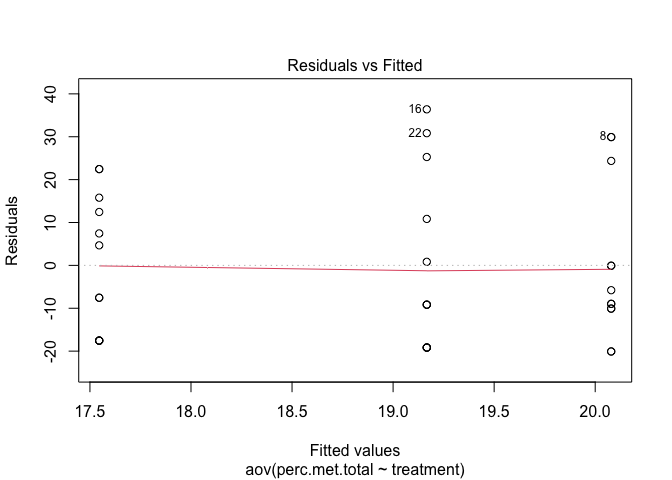
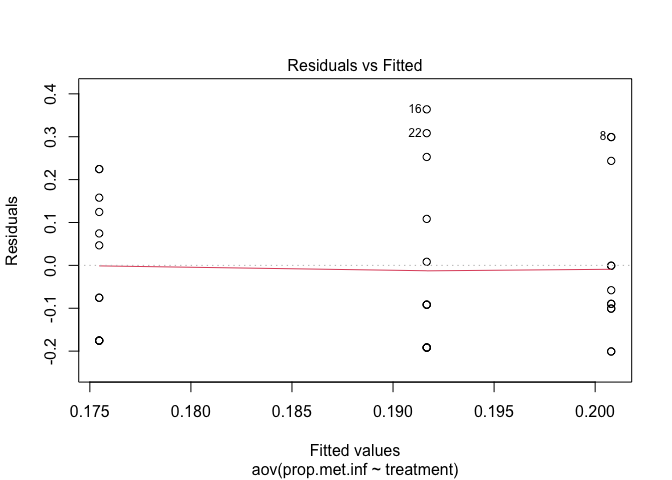
error checking github md file

diff --git a/Fall2022GalleriaField.md b/Fall2022GalleriaField.md
@@ -1,7 +1,7 @@
 Fall 2022 Galleria field infection data
 ================
 Morgan Swoboda
-2023-02-08
+2023-02-09
 
 # Package install and upload data sheet
 
@@ -36,24 +36,23 @@ Fall22EPF <- read.csv("Fall 22 epf bioassay - Sheet1.csv", )
 #make treatments and varieties into factors
 Fall22EPF$treatment = factor(Fall22EPF$treatment, levels = c("Control", "10Met", "10Bb"))
 Fall22EPF$variety = factor(Fall22EPF$variety, levels = c("Cochise", "Armani"))
-Fall22EPF$num.dead = as.numeric(Fall22EPF$num.dead)
-Fall22EPF$num.pupae = as.numeric(Fall22EPF$num.pupae)
-Fall22EPF$total.out = as.numeric(Fall22EPF$total.out)
-Fall22EPF$num.met.infect = as.numeric(Fall22EPF$num.met.infect)
+#Fall22EPF$num.dead = as.numeric(Fall22EPF$num.dead)
+#Fall22EPF$num.pupae = as.numeric(Fall22EPF$num.pupae)
+#Fall22EPF$total.out = as.numeric(Fall22EPF$total.out)
+#Fall22EPF$num.met.infect = as.numeric(Fall22EPF$num.met.infect)
 ```
 
 \#Prelim data check
 
 ``` r
-ggplot(data = Fall22EPF, aes(x = treatment, y = perc.inf.total, color = variety)) + geom_boxplot() + ggtitle("Total infection")
+#histogram of the distribution of number of metarhizium infected insects
+hist(Fall22EPF$num.met.infect)
 ```
 
 ![](Fall2022GalleriaField_files/figure-gfm/unnamed-chunk-2-1.png)<!-- -->
 
 ``` r
-#everything looks ok
-
-ggplot(data = Fall22EPF, aes(x = treatment, y = perc.met.total, color = variety)) + geom_boxplot() + ggtitle("Metarhizium infection")
+ggplot(data = Fall22EPF, aes(x = treatment, y = prop.met.inf, color = variety)) + geom_boxplot() + ggtitle("Metarhizium infection")
 ```
 
 ![](Fall2022GalleriaField_files/figure-gfm/unnamed-chunk-2-2.png)<!-- -->
@@ -63,15 +62,15 @@ ggplot(data = Fall22EPF, aes(x = treatment, y = perc.met.total, color = variety)
 attach(Fall22EPF)
 
 ##two way ANOVA
-two.way.Met <- aov(perc.met.total~treatment*variety)
-summary(two.way.Met) #no signifcant differences, no interaction, change to one way model instead
+two.way.Met <- aov(prop.met.inf~treatment*variety)
+summary(two.way.Met) #no signifcant differences, no interaction, change to one way model instead?
 ```
 
     ##                   Df Sum Sq Mean Sq F value Pr(>F)
-    ## treatment          2     40    19.8   0.055  0.947
-    ## variety            1    196   196.2   0.543  0.467
-    ## treatment:variety  2    150    74.8   0.207  0.814
-    ## Residuals         30  10831   361.0
+    ## treatment          2 0.0040 0.00198   0.055  0.947
+    ## variety            1 0.0196 0.01962   0.543  0.467
+    ## treatment:variety  2 0.0150 0.00748   0.207  0.814
+    ## Residuals         30 1.0831 0.03610
 
 ``` r
 summary.lm(two.way.Met)
@@ -79,36 +78,36 @@ summary.lm(two.way.Met)
 
     ## 
     ## Call:
-    ## aov(formula = perc.met.total ~ treatment * variety)
+    ## aov(formula = prop.met.inf ~ treatment * variety)
     ## 
     ## Residuals:
     ##     Min      1Q  Median      3Q     Max 
-    ## -24.073 -14.260  -7.458  13.864  41.300 
+    ## -0.2407 -0.1426 -0.0746  0.1387  0.4130 
     ## 
     ## Coefficients:
-    ##                              Estimate Std. Error t value Pr(>|t|)  
-    ## (Intercept)                   20.1583     7.7571   2.599   0.0144 *
-    ## treatment10Met                -5.8983    10.9701  -0.538   0.5948  
-    ## treatment10Bb                 -4.7883    10.9701  -0.436   0.6656  
-    ## varietyArmani                 -0.1583    10.9701  -0.014   0.9886  
-    ## treatment10Met:varietyArmani   9.9717    15.5141   0.643   0.5253  
-    ## treatment10Bb:varietyArmani    4.5100    15.5141   0.291   0.7733  
+    ##                               Estimate Std. Error t value Pr(>|t|)  
+    ## (Intercept)                   0.201587   0.077571   2.599   0.0144 *
+    ## treatment10Met               -0.058995   0.109702  -0.538   0.5947  
+    ## treatment10Bb                -0.047884   0.109702  -0.436   0.6656  
+    ## varietyArmani                -0.001587   0.109702  -0.014   0.9886  
+    ## treatment10Met:varietyArmani  0.099735   0.155142   0.643   0.5252  
+    ## treatment10Bb:varietyArmani   0.045106   0.155142   0.291   0.7733  
     ## ---
     ## Signif. codes:  0 '***' 0.001 '**' 0.01 '*' 0.05 '.' 0.1 ' ' 1
     ## 
-    ## Residual standard error: 19 on 30 degrees of freedom
-    ## Multiple R-squared:  0.03435,    Adjusted R-squared:  -0.1266 
-    ## F-statistic: 0.2134 on 5 and 30 DF,  p-value: 0.9541
+    ## Residual standard error: 0.19 on 30 degrees of freedom
+    ## Multiple R-squared:  0.03436,    Adjusted R-squared:  -0.1266 
+    ## F-statistic: 0.2135 on 5 and 30 DF,  p-value: 0.9541
 
 ``` r
 ##one way anova
-one.way.Met <- aov(perc.met.total~treatment)
+one.way.Met <- aov(prop.met.inf~treatment)
 summary(one.way.Met) #not significant
 ```
 
     ##             Df Sum Sq Mean Sq F value Pr(>F)
-    ## treatment    2     40    19.8   0.058  0.943
-    ## Residuals   33  11177   338.7
+    ## treatment    2  0.004 0.00198   0.058  0.943
+    ## Residuals   33  1.118 0.03387
 
 ``` r
 summary.lm(one.way.Met)
@@ -116,23 +115,23 @@ summary.lm(one.way.Met)
 
     ## 
     ## Call:
-    ## aov(formula = perc.met.total ~ treatment)
+    ## aov(formula = prop.met.inf ~ treatment)
     ## 
     ## Residuals:
-    ##     Min      1Q  Median      3Q     Max 
-    ## -20.079 -17.546  -7.546  13.287  36.393 
+    ##      Min       1Q   Median       3Q      Max 
+    ## -0.20079 -0.17546 -0.07546  0.13287  0.36389 
     ## 
     ## Coefficients:
-    ##                Estimate Std. Error t value Pr(>|t|)    
-    ## (Intercept)     20.0792     5.3126   3.780 0.000626 ***
-    ## treatment10Met  -0.9125     7.5132  -0.121 0.904069    
-    ## treatment10Bb   -2.5333     7.5132  -0.337 0.738113    
+    ##                 Estimate Std. Error t value Pr(>|t|)    
+    ## (Intercept)     0.200794   0.053127   3.780 0.000626 ***
+    ## treatment10Met -0.009127   0.075133  -0.121 0.904049    
+    ## treatment10Bb  -0.025331   0.075133  -0.337 0.738142    
     ## ---
     ## Signif. codes:  0 '***' 0.001 '**' 0.01 '*' 0.05 '.' 0.1 ' ' 1
     ## 
-    ## Residual standard error: 18.4 on 33 degrees of freedom
-    ## Multiple R-squared:  0.003523,   Adjusted R-squared:  -0.05687 
-    ## F-statistic: 0.05833 on 2 and 33 DF,  p-value: 0.9434
+    ## Residual standard error: 0.184 on 33 degrees of freedom
+    ## Multiple R-squared:  0.003522,   Adjusted R-squared:  -0.05687 
+    ## F-statistic: 0.05831 on 2 and 33 DF,  p-value: 0.9435
 
 ``` r
 plot(one.way.Met) #probably not normal based on QQ plot, looks like it's exponential?
@@ -148,76 +147,74 @@ shapiro.test(resid(one.way.Met)) #residuals NOT normal
     ##  Shapiro-Wilk normality test
     ## 
     ## data:  resid(one.way.Met)
-    ## W = 0.88313, p-value = 0.001218
+    ## W = 0.88312, p-value = 0.001217
 
 ``` r
-fligner.test(perc.met.total~treatment) #normal
+fligner.test(prop.met.inf~treatment) #normal
 ```
 
     ## 
     ##  Fligner-Killeen test of homogeneity of variances
     ## 
-    ## data:  perc.met.total by treatment
-    ## Fligner-Killeen:med chi-squared = 0.57668, df = 2, p-value = 0.7495
+    ## data:  prop.met.inf by treatment
+    ## Fligner-Killeen:med chi-squared = 0.5765, df = 2, p-value = 0.7496
 
 ``` r
 # KW instead since it's not normal
 ##KW for met
-MetF22KW <- kruskal.test(perc.met.total~treatment)
+MetF22KW <- kruskal.test(prop.met.inf~treatment)
 print(MetF22KW) #not significant
 ```
 
     ## 
     ##  Kruskal-Wallis rank sum test
     ## 
-    ## data:  perc.met.total by treatment
+    ## data:  prop.met.inf by treatment
     ## Kruskal-Wallis chi-squared = 0.35641, df = 2, p-value = 0.8368
 
 ``` r
-detach(Fall22EPF)
-```
-
-# Try a different type of analysis? Could this data be proportions?
-
-## X is categorical, unsure what to do with Y?
-
-``` r
-attach(Fall22EPF)
-
+#make some graphs
 head(Fall22EPF)
 ```
 
-    ##   pot.ID treatment variety num.dead num.pupae perc.pupated total.out num.infect
-    ## 1    C+1   Control Cochise        5         2     28.57143         7          1
-    ## 2    C+2   Control Cochise       10         0      0.00000        10          6
-    ## 3    C+3   Control Cochise        9         0      0.00000         9          6
-    ## 4    C+4   Control Cochise        9         0      0.00000         9          2
-    ## 5    C+5   Control Cochise        9         0      0.00000         9          2
-    ## 6    C+6   Control Cochise        9         1     10.00000        10          2
-    ##   num.bb.infect num.met.infect perc.inf.total perc.bb.total perc.met.total
-    ## 1             0              1          14.29             0          14.29
-    ## 2             0              2          60.00             0          20.00
-    ## 3             0              4          66.67             0          44.44
-    ## 4             0              1          22.22             0          11.11
-    ## 5             0              1          22.22             0          11.11
-    ## 6             0              2          20.00             0          20.00
+    ##   pot.ID treatment variety num.dead num.pupae total.out num.infect
+    ## 1    C+1   Control Cochise        5         2         7          1
+    ## 2    C+2   Control Cochise       10         0        10          6
+    ## 3    C+3   Control Cochise        9         0         9          6
+    ## 4    C+4   Control Cochise        9         0         9          2
+    ## 5    C+5   Control Cochise        9         0         9          2
+    ## 6    C+6   Control Cochise        9         1        10          2
+    ##   num.bb.infect num.met.infect prop.met.inf prop.bb.inf
+    ## 1             0              1    0.1428571           0
+    ## 2             0              2    0.2000000           0
+    ## 3             0              4    0.4444444           0
+    ## 4             0              1    0.1111111           0
+    ## 5             0              1    0.1111111           0
+    ## 6             0              2    0.2000000           0
 
 ``` r
-par(mfrow = c(1,2))
-
-inf.proportion <- num.met.infect/total.out #looking for the proportion of metarhizium infections out of the number of removed insects
-plot(treatment, inf.proportion, ylab = "proportion met infected", xlab("Treatment"))
-plot(treatment, log(inf.proportion), ylab = "(log)proportion met infected", xlab("Treatment")) #messes up the plots because of an outlier?
+plot(treatment, prop.met.inf, ylab = "proportion met infected", xlab("Treatment"))
 ```
 
-    ## Warning in bplt(at[i], wid = width[i], stats = z$stats[, i], out =
-    ## z$out[z$group == : Outlier (-Inf) in boxplot 1 is not drawn
-
-![](Fall2022GalleriaField_files/figure-gfm/unnamed-chunk-4-1.png)<!-- -->
+![](Fall2022GalleriaField_files/figure-gfm/unnamed-chunk-3-5.png)<!-- -->
 
 ``` r
-detach(Fall22EPF)
+#nice plot
+met.inf.F22 <- ggplot(data = Fall22EPF, aes(x = treatment, y = prop.met.inf, fill = treatment)) + 
+  geom_bar(stat = "summary", fun = "mean", position = "dodge", color = "black") + scale_fill_manual(values=c("#B31B1B", "#ddd3c2", "#221f1b")) +
+  geom_errorbar(stat = "summary", fun.data = "mean_se", aes(x=treatment), position = "dodge", width = 0.5) + 
+  ylab("Proportion of G. mellonella infected by M. anisopliae") + 
+  theme_classic() + theme(text = element_text(size=15)) + 
+  theme(legend.position = "none") + ggtitle("Fall 2022")
+
+#centered the title and made an object
+met.inf.F22 <- met.inf.F22 + theme(plot.title = element_text(hjust = 0.5))
+met.inf.F22
 ```
+
+![](Fall2022GalleriaField_files/figure-gfm/unnamed-chunk-3-6.png)<!-- -->
+
+# Try a different type of analysis? X is categorical, Y is continuous/counts (but is a proportion)
 
 \#Try a GLM? \## can use a GLM when the variance is not constant, and/or
 when the errors are not normally distributed \### Might consider using
@@ -227,14 +224,12 @@ time to death where the varience increases faster than linearly with the
 mean
 
 ``` r
-attach(Fall22EPF)
 names(Fall22EPF) #num.dead is the number of galleria counted as dead, num.pupae is the number that pupated, total.out is the sum of num.dead and num.pupae, num.met.infect is the number of galleria that exhibited Metarhizium infections
 ```
 
     ##  [1] "pot.ID"         "treatment"      "variety"        "num.dead"      
-    ##  [5] "num.pupae"      "perc.pupated"   "total.out"      "num.infect"    
-    ##  [9] "num.bb.infect"  "num.met.infect" "perc.inf.total" "perc.bb.total" 
-    ## [13] "perc.met.total"
+    ##  [5] "num.pupae"      "total.out"      "num.infect"     "num.bb.infect" 
+    ##  [9] "num.met.infect" "prop.met.inf"   "prop.bb.inf"
 
 ``` r
 #look at main effect means
@@ -252,9 +247,35 @@ tapply(num.met.infect, variety, mean)
     ## 1.555556 2.000000
 
 ``` r
-#glm model of interactions between treatment and variety
-glmmodel <- glm(num.met.infect ~ treatment * variety, poisson)
-summary(glmmodel) #no interaction, remove variety as a main effect
+#check with error distribution works best with this data
+library(MASS)
+```
+
+    ## 
+    ## Attaching package: 'MASS'
+
+    ## The following object is masked from 'package:dplyr':
+    ## 
+    ##     select
+
+``` r
+fit1 <- fitdistr(Fall22EPF$num.met.infect, "normal")
+fit2 <- fitdistr(Fall22EPF$num.met.infect, "Poisson")
+fit3 <- fitdistr(Fall22EPF$num.met.infect, "negative binomial")
+
+#check the AIC of the three error distributions
+AIC(fit1, fit2, fit3) #the smaller the AIC, the better fit. Negative binomial seems to be the best.
+```
+
+    ##      df      AIC
+    ## fit1  2 142.2973
+    ## fit2  1 134.5409
+    ## fit3  2 131.9341
+
+``` r
+#glm model of interactions between treatment and variety - Poisson error distribution
+glmintmodel <- glm(num.met.infect ~ treatment * variety, poisson)
+summary(glmintmodel) #no interaction
 ```
 
     ## 
@@ -285,7 +306,14 @@ summary(glmmodel) #no interaction, remove variety as a main effect
     ## Number of Fisher Scoring iterations: 5
 
 ``` r
-model2 <- glm(num.met.infect ~ treatment, poisson)
+#glm model of interactions between treatment and variety - negative binomial error distribution
+
+
+#R reports two forms of deviance – the null deviance and the residual deviance. The null deviance shows how well the response variable is predicted by a model that includes only the intercept (grand mean). It’s a measure of badness of fit–higher numbers indicate worse fit.  As a general rule of thumb, you should hope that your Residual deviance is not more than twice your degrees of freedom.
+
+#The Akaike Information Criterion (AIC) provides a method for assessing the quality of your model through comparison of related models.  It’s based on the Deviance, but penalizes you for making the model more complicated.  Much like adjusted R-squared, it’s intent is to prevent you from including irrelevant predictors. However, unlike adjusted R-squared, the number itself is not meaningful. If you have more than one similar candidate models (where all of the variables of the simpler model occur in the more complex models), then you should select the model that has the smallest AIC. So it’s useful for comparing models, but isn’t interpretable on its own.
+
+model2 <-  glm(num.met.infect ~ treatment, poisson)
 summary(model2)
 ```
 
@@ -315,7 +343,7 @@ summary(model2)
 
 ``` r
 #see how the models compare to each other using an anova
-anova(glmmodel,model2, test = "Chi") #not significantly different, so we're ok using the model2
+anova(glmintmodel,model2, test = "Chi") #not significantly different, so we're ok using the model2?
 ```
 
     ## Analysis of Deviance Table
@@ -325,5 +353,25 @@ anova(glmmodel,model2, test = "Chi") #not significantly different, so we're ok u
     ##   Resid. Df Resid. Dev Df Deviance Pr(>Chi)
     ## 1        30     61.742                     
     ## 2        33     63.600 -3  -1.8576   0.6025
+
+``` r
+# Ashley suggested to keep the variety interaction even though it's not significant
+
+#test the model that you think fits best with the Hosmer Lemeshow goodness of fit test.
+# install.packages("ResourceSelection") #need this package for the hoslem.test() function.
+library(ResourceSelection)
+```
+
+    ## ResourceSelection 0.3-5   2019-07-22
+
+``` r
+hoslem.test(Fall22EPF$num.met.infect, fitted(model2))
+```
+
+    ## 
+    ##  Hosmer and Lemeshow goodness of fit (GOF) test
+    ## 
+    ## data:  Fall22EPF$num.met.infect, fitted(model2)
+    ## X-squared = -3.3327e-19, df = 8, p-value = 1
 
 # Plot the GLM model
